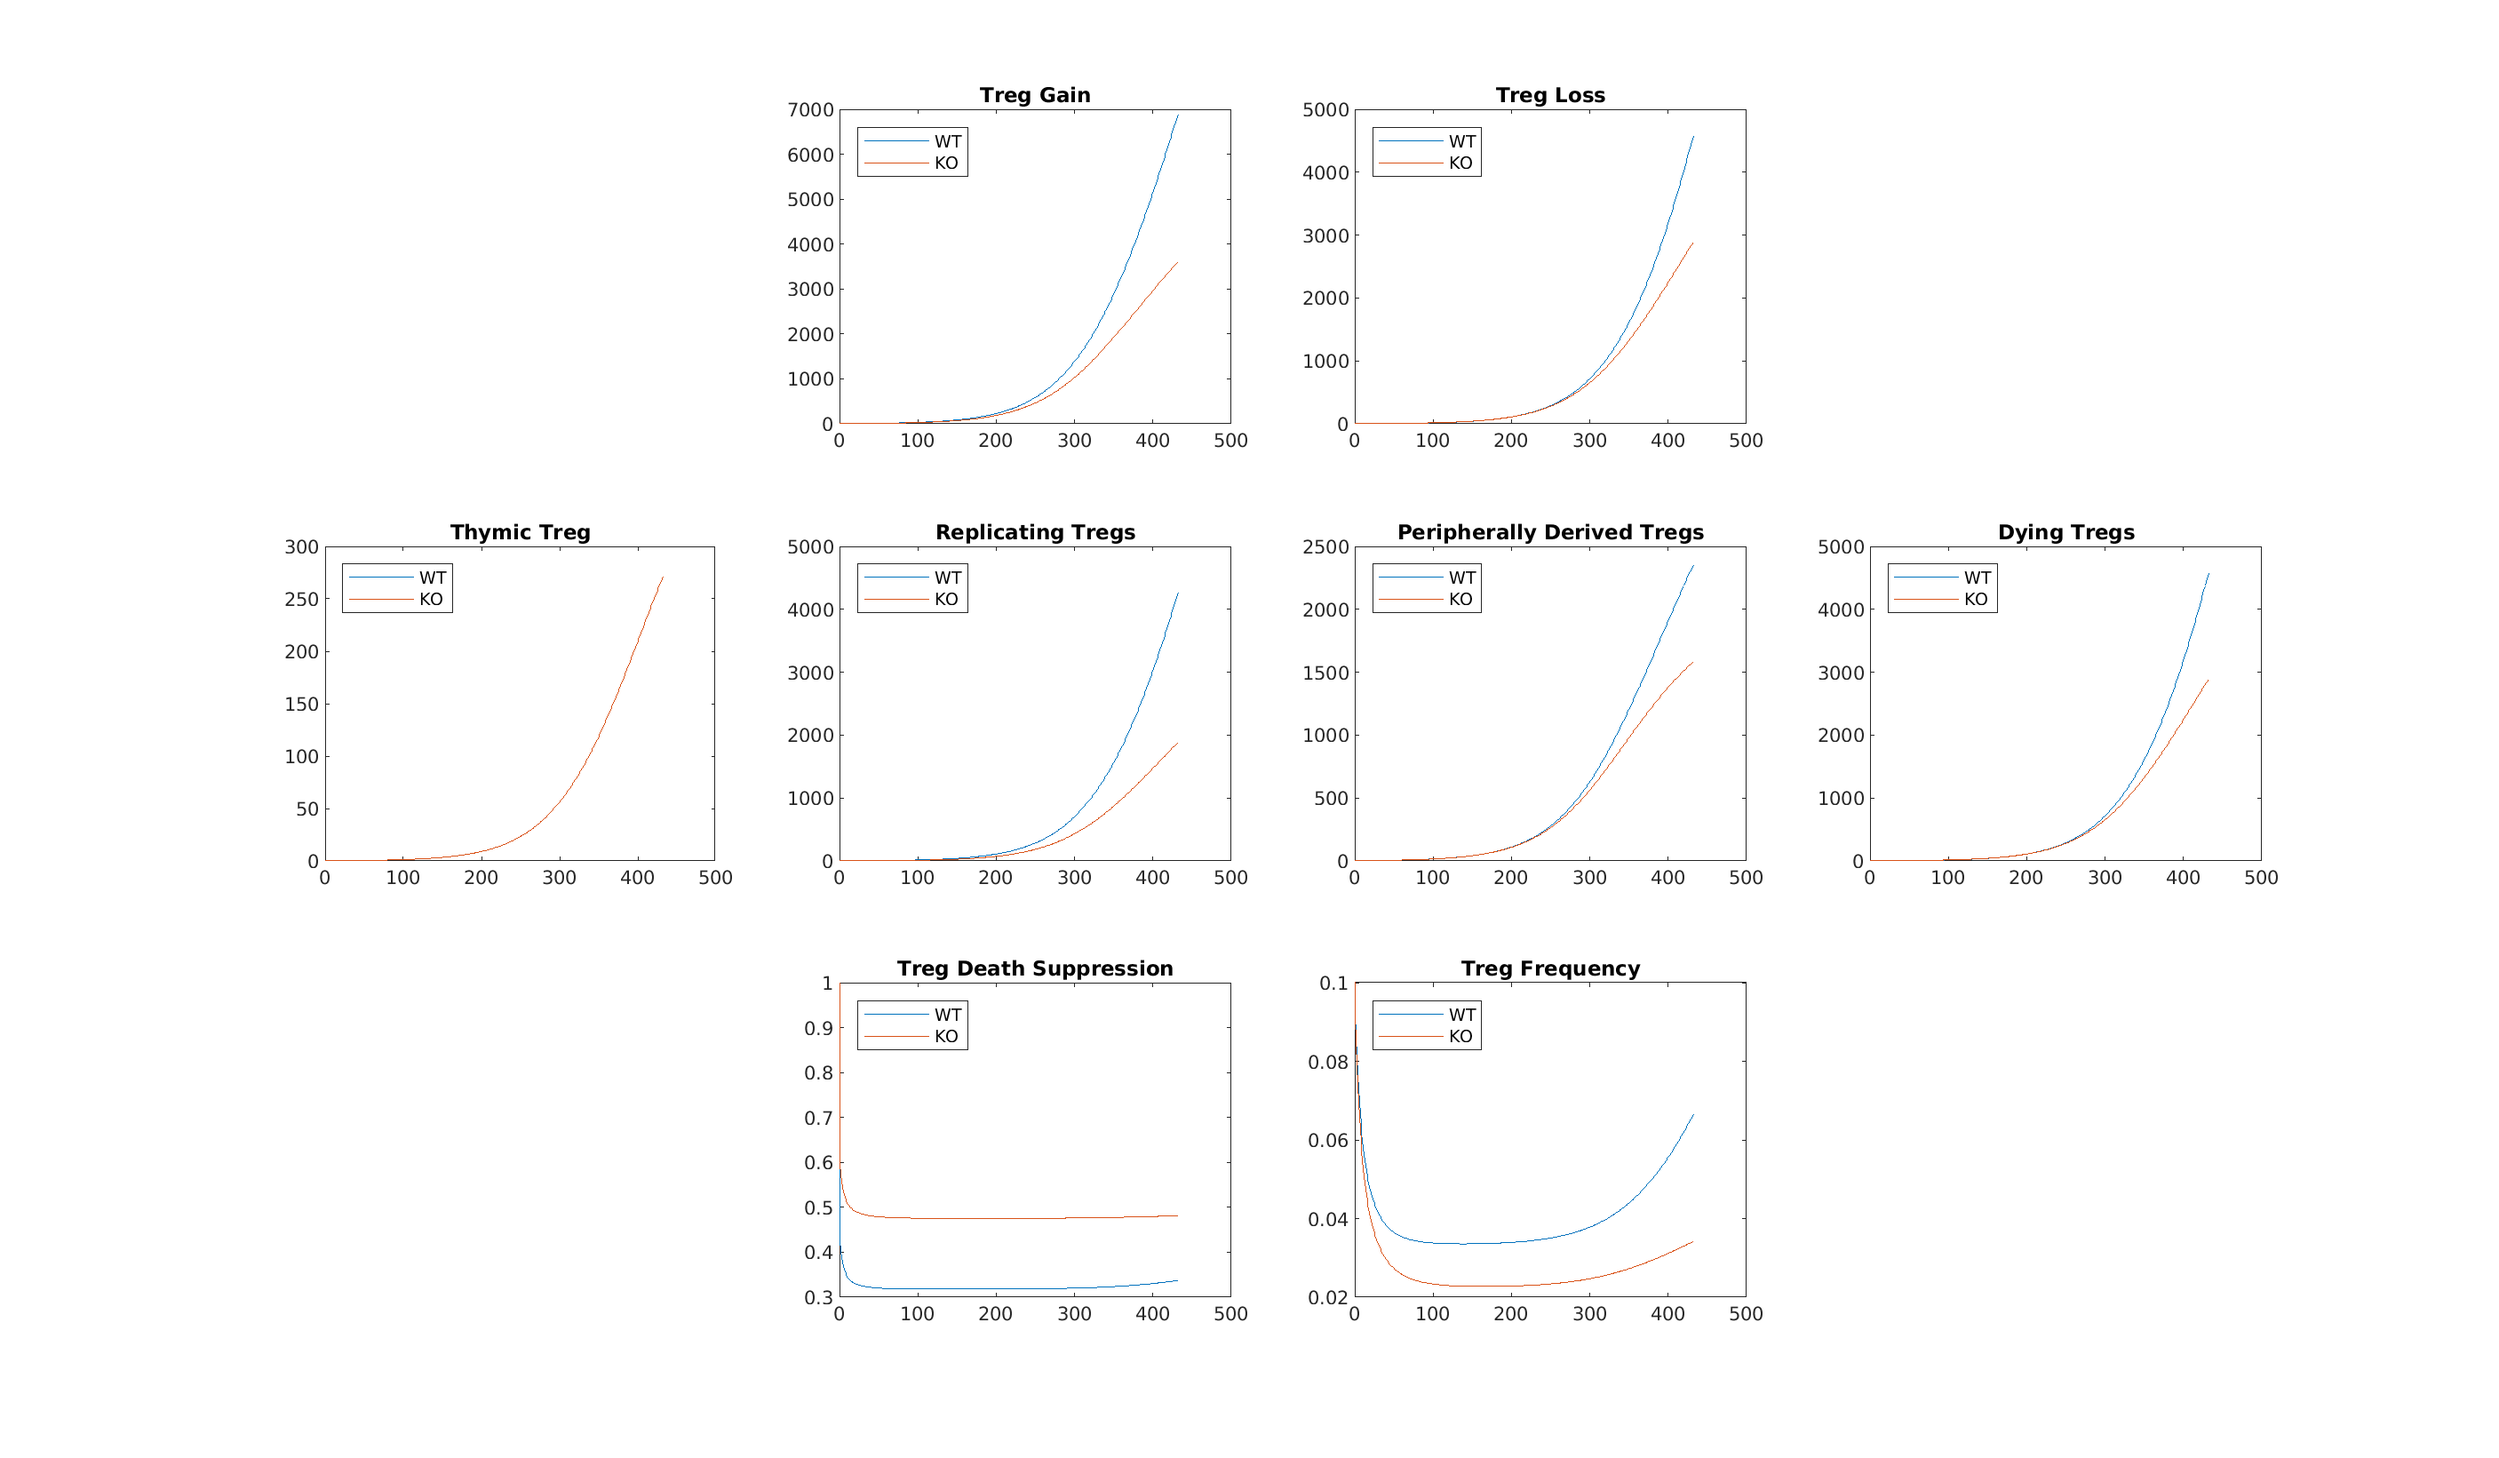
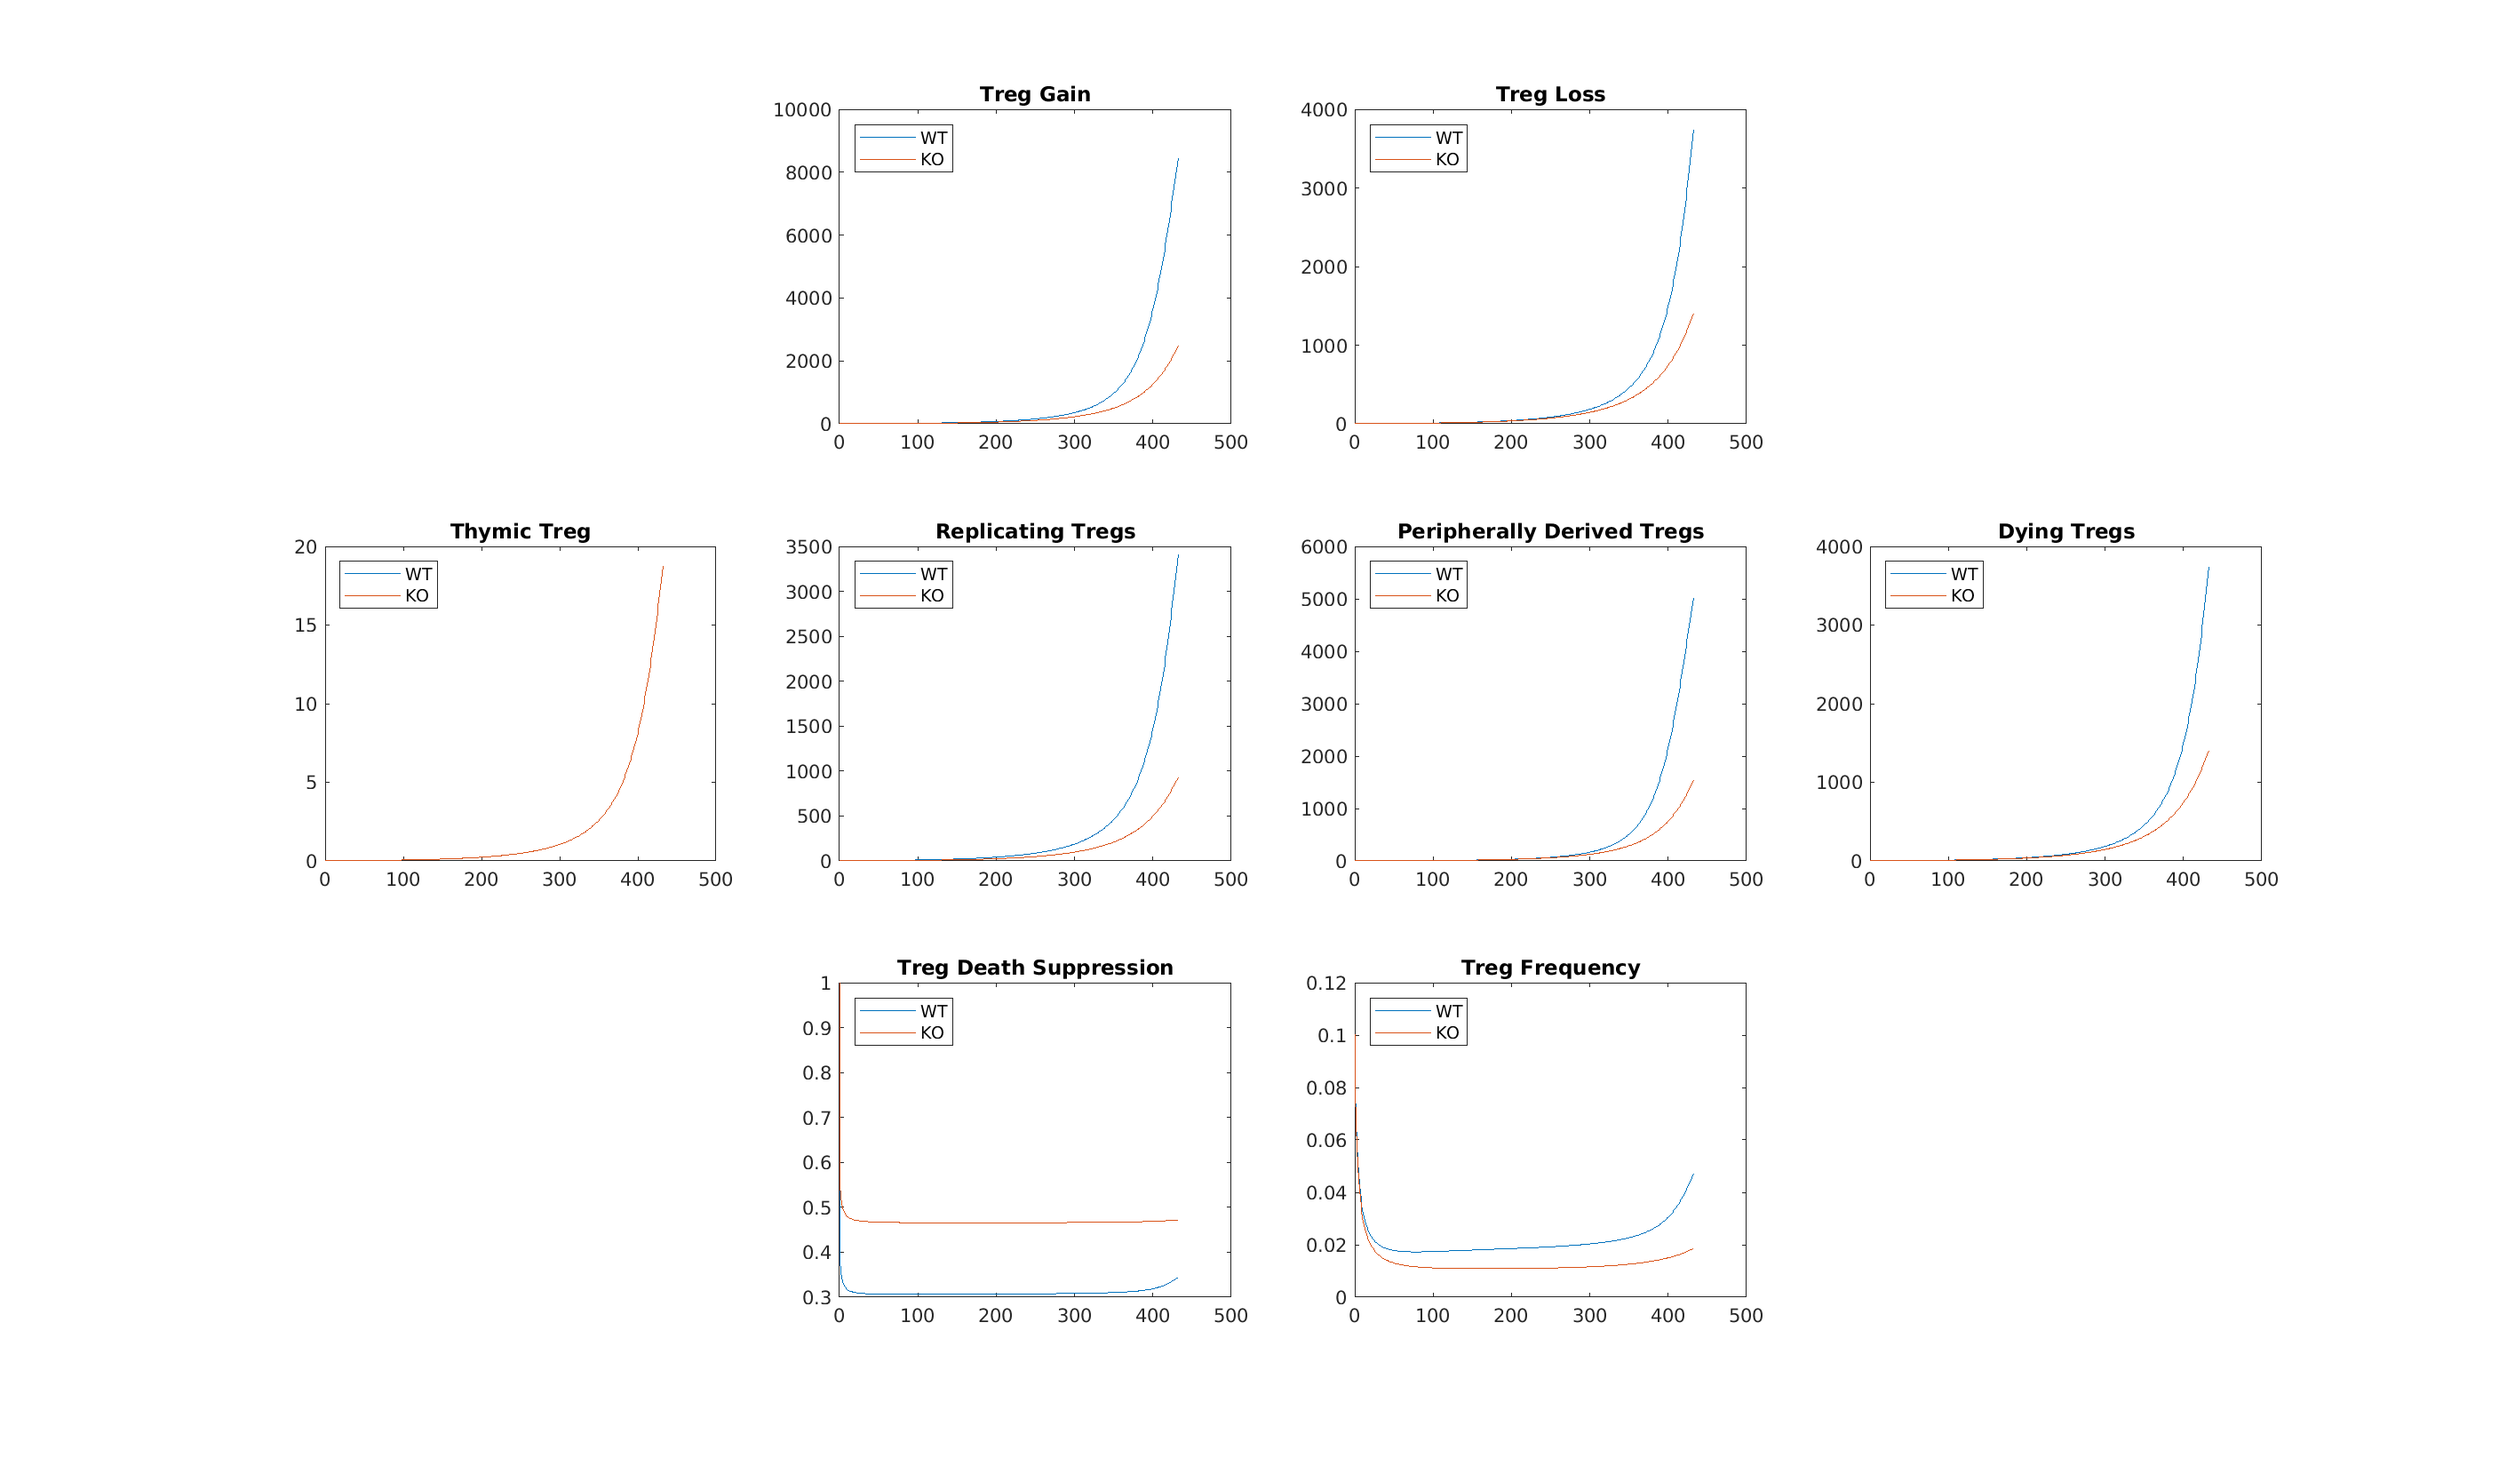
Changing the Il-2 influence to be exponential

diff --git a/Modeling/Matlab/Testing_GrowthChange/Removing Thymic influence/PlottingEverything.m b/Modeling/Matlab/Testing_GrowthChange/Removing Thymic influence/PlottingEverything.m
@@ -287,12 +287,12 @@ title('Removed Activated T Cells')
 legend ({'WT', 'KO'}, 'Location','northwest')
 
 
-Changing = {'*mu',       mu,         'cells*hr−1';...
+Changing = {'mu',       mu,         'cells*hr−1';...
                      '*nK',          nK,           '?';...
                     '*z',             z,             'cells-1*hr-1';...
-                    '*g',          g,             '   hr−1';...
+                    'g',          g,             '   hr−1';...
                     
-                    '*alpha',     alpha,     '   cells*hr−1';...
+                    'alpha',     alpha,     '   cells*hr−1';...
                     '*rK',           rK,         '?';...
                     '*c',           c,           '   hr−1';...
                     '*epsilon',  epsilon,   '  hr−1';...
@@ -300,7 +300,7 @@ Changing = {'*mu',       mu,         'cells*hr−1';...
                     
                     'beta',      beta,      '   hr−1';...
                     '*a',           a,             '   hr−1';...
-                    'b_T',       b_T,           '   hr−1'};
+                    '*b_T',       b_T,           '   hr−1'};
 
 columnname =   {'Parameters', '     Value          ', '           Units           '};
 columnformat = {'char', 'numeric', 'char'}; 
@@ -320,7 +320,7 @@ Fixed =  {'*e_T',       e_T,         '   cells-1*hr−1';...
                 '*kA',         kA,           '   cells';...
                 '*j',                j,             '    cell-2*hour-1';...
                 '*Ki',              Ki,          '?'; ...
-                'Kj'                Kj,             '?';...
+                '*Kj'                Kj,             '?';...
                 '*kB',          kB,           '   cells';...
                 
                 '*n',           n,           '              -        ';...

diff --git a/Modeling/Matlab/Testing_GrowthChange/Removing Thymic influence/GrowthObjective.m b/Modeling/Matlab/Testing_GrowthChange/Removing Thymic influence/GrowthObjective.m
@@ -1,4 +1,4 @@
-function obj= GrowthObjective(p)
+function obj= GrowthObjective(p, parameterStruct)
 global Objective WTerror KOerror
 %load data
 Gntype = [1, 2];
@@ -10,11 +10,11 @@ Rsquare = 0;
 for Genotype = Gntype
     %1 = WildType, 2 = IL-2 KO
     if Genotype == 1
-        CellData = readtable('../../RawData/ActivatedWTSpleen.csv');
-        ProlData = readtable('../../RawData/WTProl.csv');
+        CellData = parameterStruct.WildType.CellData;
+        ProlData = parameterStruct.WildType.ProlData;
     elseif Genotype == 2
-        CellData = readtable('../../RawData/ActivatedKOSpleen.csv');
-        ProlData = readtable('../../RawData/KOProl.csv');
+        CellData = parameterStruct.WildType.CellData;
+        ProlData = parameterStruct.WildType.ProlData;
     end
 
     CellData = CellData(:,{'NaiveCT', 'ActivatedCD4CT', 'X4TregCT', ...

diff --git a/Modeling/Matlab/Testing_GrowthChange/Removing Thymic influence/LHSInitialConditions.m b/Modeling/Matlab/Testing_GrowthChange/Removing Thymic influence/LHSInitialConditions.m
@@ -3,7 +3,7 @@ clc; clear; close all;
 %                                       Only make changes here
 % Here are the choices {'N', 'T', 'R', 'ThyN', 'ActN', 'ThyR', 'DiffR', 'Nprol', 'Tprol', 'Rprol', 'I'};
 CondKeys = {'N', 'T', 'R', 'ThyN', 'ActN', 'ThyR', 'DiffR', 'Nprol', 'Tprol', 'Rprol', 'I'};
-SampleSize = 500;
+SampleSize = 50;
 PctChange = 0.55; %What percentage should the initial conditions vary?
 EntryNumber = 21;
 %--------------------------------------------------------------------------------------------------------%
